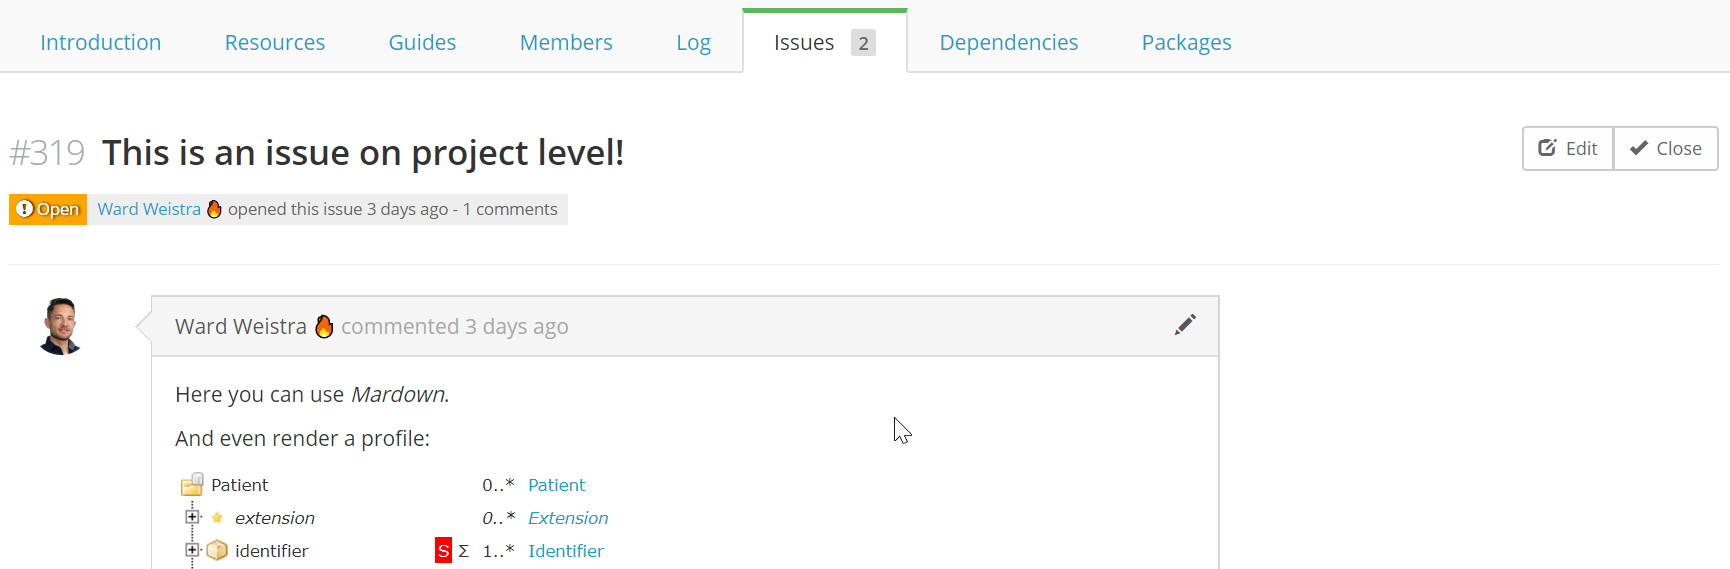
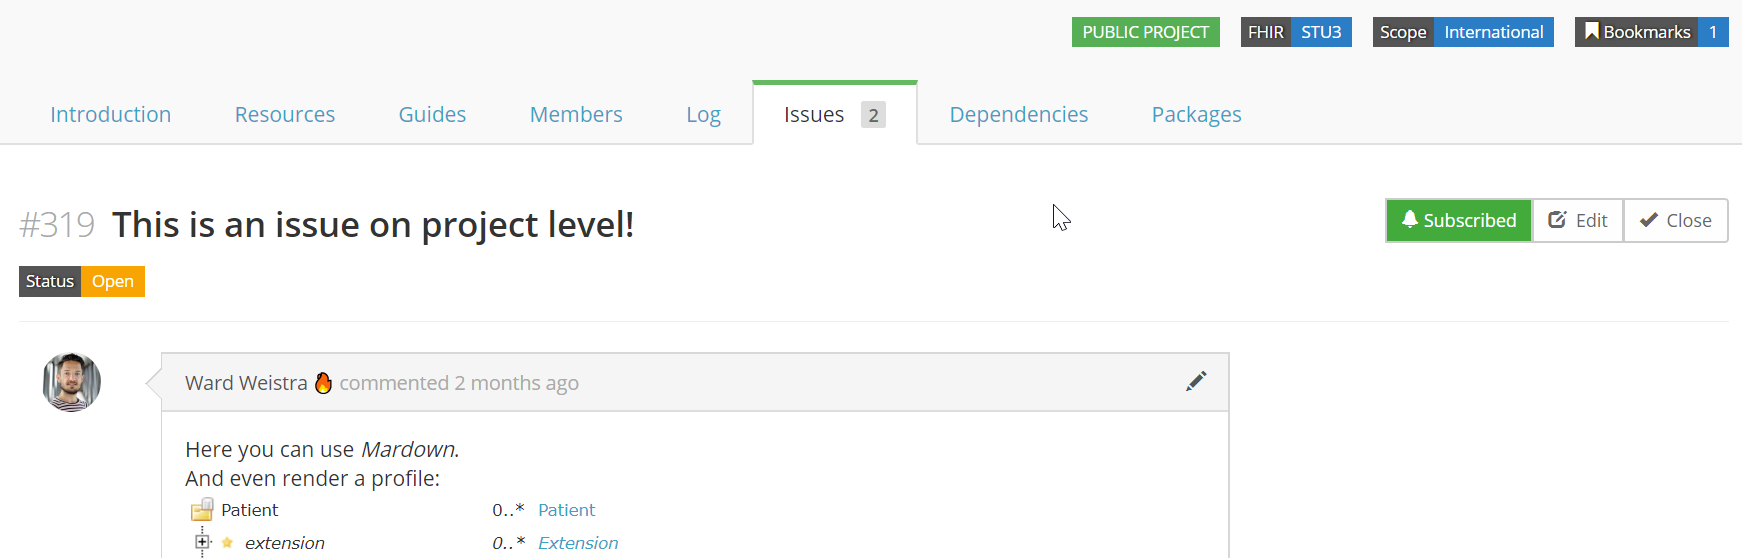
Adding issue notifications

diff --git a/simplifier/simplifierProjects.rst b/simplifier/simplifierProjects.rst
@@ -196,6 +196,12 @@ At the top of the screen you will find the Atom feed button. This allows you to 
 
 Issue Tracker
 """""""""""""
-Would you like to capture feedback about your resources from users? The Issue tracker option is a great way to do this. If you go to the ``Settings`` dropdown menu and then select ``Properties``. You will see the option to Enable Issues at the bottom of your screen. By selecting the On option, you enable the issue tracking feature of your project. There are two additional options that display once you have turned Issue tracking on. You have the option to limit Issue visibility to project members only or make them publicly visible. The issues that are reported by the community can also be limited to be visable to your project members only or visible to the public. These issues can either be reported at resource level or at project level. At the project level you will see issues that are project specific and issues from all resources in that project on the ``Issues`` tab.
+Would you like to capture feedback about your resources from users? The Issue tracker option is a great way to do this. If you go to the ``Settings`` dropdown menu and then select ``Properties``. You will see the option to Enable Issues at the bottom of your screen. By selecting the On option, you enable the issue tracking feature of your project.
 
 .. image:: ./images/SimplifierIssueTracker.png
+
+There are two additional options that display once you have turned Issue tracking on. You have the option to limit Issue visibility to project members only or make them publicly visible. The issues that are reported by the community can also be limited to be visable to your project members only or visible to the public.
+
+These issues can either be reported at resource level or at project level. At the project level you will see issues that are project specific and issues from all resources in that project on the ``Issues`` tab.
+
+You will automatically be subscribed to issues you have reported or commented on, but you can also subscribe or unsubscribe to updates on them by clicking their bell icon. If you want to be informed on new issues reported on a project, click the ``Subscribe`` button on the project level and ``Subscribe to new issues`` there.
